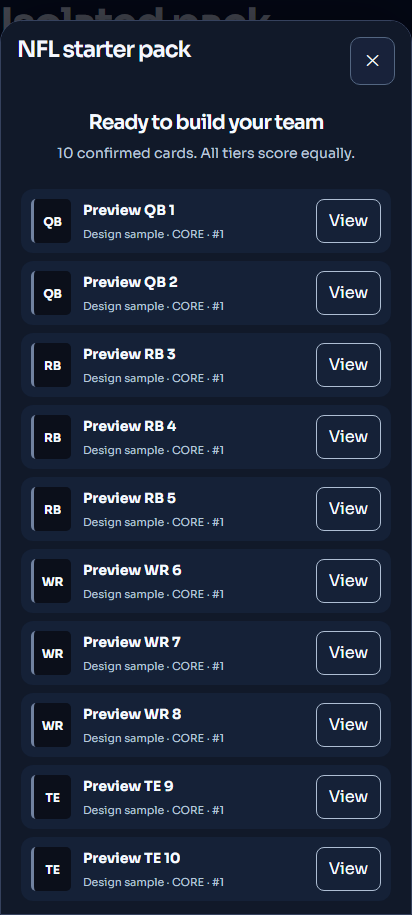
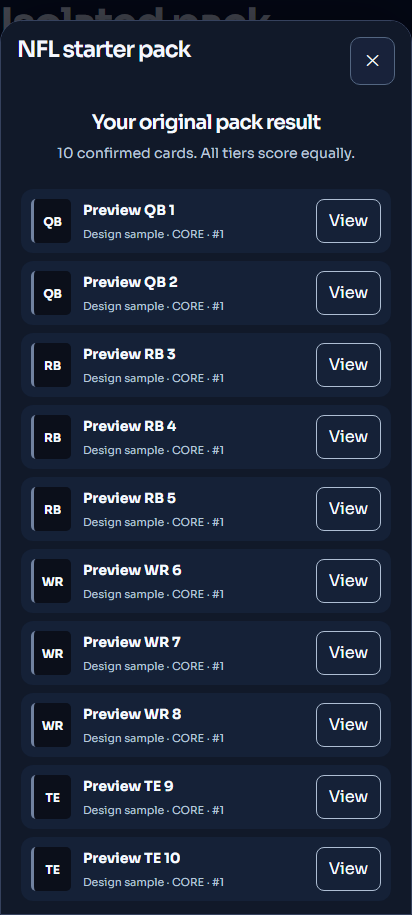
feat: release confirmed pack reveals to invited friends

Changed region(s): [[0.2039, 0.1224, 0.7864, 0.153]]

diff --git a/tests/platform/friends-target.test.ts b/tests/platform/friends-target.test.ts
@@ -9,6 +9,7 @@ import {
 } from "../../src/core/friends-release.mjs";
 import { assertHostedBeta } from "../../src/core/hosted-beta.mjs";
 import { friendsReleaseIdentity } from "../../src/core/beta-release-identity.mjs";
+import { packExperienceEnabled } from "../../src/core/pack-experience";
 
 const fixture = () => ({
   ...receipt,
@@ -89,6 +90,39 @@ test("complete friends guard retains exact project, role, commercial and secret 
     ),
   };
   assert.equal(assertHostedBeta(env, fixture()), true);
+  assert.equal(packExperienceEnabled(env), false);
+  assert.equal(
+    packExperienceEnabled({
+      ...env,
+      NEXT_PUBLIC_DOCKED_FRIENDS_PACK_REVEAL: "true",
+    }),
+    false,
+  );
+  assert.equal(
+    packExperienceEnabled({ ...env, DOCKED_FRIENDS_PACK_REVEAL: "true" }),
+    true,
+  );
+  assert.equal(
+    packExperienceEnabled({
+      ...env,
+      DOCKED_FRIENDS_PACK_REVEAL: "true",
+      DOCKED_FRIENDS_BETA: "false",
+    }),
+    false,
+  );
+  for (const change of [
+    { VERCEL_PROJECT_ID: "other" },
+    { DATABASE_URL: env.DATABASE_URL.replace("docked_beta_app", "docked_app") },
+    { PAID_PLANS_ENABLED: "true" },
+    { SITE_URL: "https://other.example" },
+  ])
+    assert.throws(() =>
+      packExperienceEnabled({
+        ...env,
+        DOCKED_FRIENDS_PACK_REVEAL: "true",
+        ...change,
+      }),
+    );
   assert.deepEqual(friendsReleaseIdentity(env, fixture()), {
     hostingProvider: "vercel",
     siteId: env.VERCEL_PROJECT_ID,

diff --git a/src/app/fantasy/[tab]/page.tsx b/src/app/fantasy/[tab]/page.tsx
@@ -9,7 +9,7 @@ import {
 import { fantasyRequest } from "@/server/fantasy";
 import { AppShell } from "@/components/app-shell";
 import { FantasyScreen } from "@/components/fantasy-screen";
-import { packRevealPreview } from "@/core/pack-opening";
+import { packExperienceEnabled } from "@/core/pack-experience";
 import { communityFeed } from "@/server/community-social";
 import { FeedContent } from "@/components/community-feed";
 import { fantasyAssets } from "@/brand/fantasy-assets";
@@ -115,7 +115,7 @@ export default async function FantasyPage({
             key={tab}
             tab={tab}
             initial={data.state}
-            packExperience={packRevealPreview()}
+          packExperience={packExperienceEnabled()}
           />
         )}
         {process.env.DOCKED_OWNER_GAMEPLAY === "true" &&

diff --git a/src/server/fantasy.ts b/src/server/fantasy.ts
@@ -12,7 +12,7 @@ import {
   fantasyProductionAction,
 } from "@/core/fantasy-production";
 import productionManifest from "../../config/hosted-production.json";
-import { packRevealPreview } from "@/core/pack-opening";
+import { packExperienceEnabled } from "@/core/pack-experience";
 export async function fantasyRequest(
   input?: unknown,
 ): Promise<{ state: FantasyState; result: Record<string, unknown> }> {
@@ -53,7 +53,7 @@ export async function fantasyRequest(
       production &&
       process.env.DOCKED_BETA_STAGING === "true" &&
       view.nfl_beta &&
-      packRevealPreview()
+      packExperienceEnabled()
     )
       view.starter_receipt = (
         await tx`select fantasy.my_nfl_pack_receipt() receipt`

diff --git a/src/core/pack-experience.ts b/src/core/pack-experience.ts
@@ -1,0 +1,16 @@
+import { assertHostedBeta } from "./hosted-beta.mjs";
+import { packRevealPreview } from "./pack-opening";
+
+/** Server-selected presentation flag. Admission and receipt ownership remain
+ * enforced by the normal authenticated read/command path. Design samples use
+ * packRevealPreview directly and never become public through this flag. */
+export function packExperienceEnabled(
+  env: Record<string, string | undefined> = process.env,
+) {
+  if (packRevealPreview(env)) return true;
+  return (
+    env.DOCKED_FRIENDS_PACK_REVEAL === "true" &&
+    env.DOCKED_FRIENDS_BETA === "true" &&
+    assertHostedBeta(env)
+  );
+}

diff --git a/tests/platform/pack-opening.test.ts b/tests/platform/pack-opening.test.ts
@@ -6,7 +6,7 @@ import {
   revealIndex,
   type PackReceipt,
 } from "../../src/core/pack-opening";
-test("pack experience never activates on production or by a client flag", () => {
+test("design Preview flag never activates on production or by a client flag", () => {
   assert.equal(
     packRevealPreview({
       DOCKED_PACK_REVEAL_PREVIEW: "true",

diff --git a/docs/BUILD_STATUS.md b/docs/BUILD_STATUS.md
@@ -1,3 +1,5 @@
+Pack-opening friends release authorised — owner requested the new experience in Barry’s update. Android v19 is being verified; design samples remain Preview-only, payments stay off and physical S24 acceptance remains pending. This supersedes the Preview-only restriction in earlier entries below.
+
 Android v18 delivered — [FRIENDS_V18_RELEASE](FRIENDS_V18_RELEASE.md). Same package/signature as v17, connected to the live friends domain/current released screens and signup fix. Build, update identity, credential scan and anonymous download passed; the authorised friend update email was accepted once (202), inbox delivery unverified. New pack animation remains Preview-only; physical acceptance pending.
 
 Signup repair live — 11 October 2026: [SIGNUP_REGION_REPAIR](SIGNUP_REGION_REPAIR.md). Application `cdd7bb49`, deployment `dpl_2B1cdf6LogHXMK3q4AAEvsm6rP1b` now serves docked.com.au. State names/codes normalize before admission; the beta form uses a selector. Hosted synthetic-member login/setup retry/restoration and 15 domain boundary checks passed. The friend's verified account remains intact and awaits their own final setup submission. Existing v17 also receives this hosted fix without reinstalling.

diff --git a/docs/PACK_OPENING_PREVIEW.md b/docs/PACK_OPENING_PREVIEW.md
@@ -1,3 +1,7 @@
+# Release update — 11 October 2026
+
+Owner explicitly approved including the new pack opening in Barry’s next friends update. This supersedes the Preview-only release restriction below for actual authenticated pack receipts. The synthetic design route remains Preview-only. Release inclusion is authorised; physical S24 and owner visual acceptance remain pending. The friends flag is separately bound to the exact isolated beta target; allocation and commercial controls are unchanged. Android v19 is in preparation.
+
 # Pack opening — visual review milestone
 
 The friends release is already live on docked.com.au, with connected Android v17. Its accepted opening flow remains unchanged. The first eligibility-only friend invitation was authorised and submitted once (Graph 202); no account, consent or cards were created on the friend's behalf. Inbox delivery and friend acceptance are not claimed.
